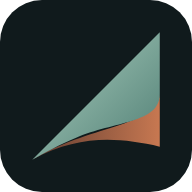
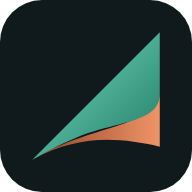
UI polish: brand palette, TV-size nav, Roadmap tab (#1)
* Align Keel Console palette tokens, sail mark, and UWP assets with canonical Keel brand

* TV-size the console navigation and rename the UWP tab to Roadmap

Tab labels go from 11px to 16px (1rem, so the text-size setting still
scales them) and the status rail from 11-12px to 14px. "UWP" is a build
target, not a place; the tab, its home button and the page eyebrow now
say Roadmap.

---------

Changed region(s): [[0.1875, 0.1562, 0.8438, 0.8125]]

diff --git a/src/app/globals.css b/src/app/globals.css
@@ -36,17 +36,17 @@
 :root {
   --keel-ink: #0a1112;
   --keel-surface: #101a1c;
-  --keel-surface-raised: #162326;
+  --keel-surface-raised: #162426;
   --keel-paper: #f7f3e9;
-  --keel-foam: #eef3f2;
-  --keel-muted: #849694;
-  --keel-jade: #709c8f;
-  --keel-jade-bright: #acd0c0;
-  --keel-rust: #c77851;
-  --keel-rust-deep: #b66e4f;
-  --keel-accent: #a4cfc0;
-  --keel-accent-strong: #4d7c70;
-  --keel-accent-ink: #081210;
+  --keel-foam: #eef4f2;
+  --keel-muted: #8ca3a0;
+  --keel-jade: #36b394;
+  --keel-jade-bright: #76dfc2;
+  --keel-rust: #dc7648;
+  --keel-rust-deep: #8f4224;
+  --keel-accent: #76dfc2;
+  --keel-accent-strong: #36b394;
+  --keel-accent-ink: #0a1112;
   --keel-border: rgb(255 255 255 / 9%);
   --keel-border-strong: rgb(255 255 255 / 16%);
 
@@ -75,23 +75,23 @@
   --radius: 0.875rem;
 }
 
-/* Tone variant: Slate (matches Keel Desktop) vs deeper Ink */
+/* Tone variant: Slate (matches Keel Desktop) vs deeper canonical Ink */
 html[data-tone="slate"] {
   --keel-ink: #0c1415;
   --keel-surface: #141f21;
   --keel-surface-raised: #1a272a;
 }
 
-/* Accent variants: Sage | Copper | Ice */
+/* Accent variants: Sage (canonical Jade) | Copper (canonical Rust) | Ice */
 html[data-accent="copper"] {
-  --keel-accent: #dfa07c;
-  --keel-accent-strong: #9c6244;
+  --keel-accent: #f09467;
+  --keel-accent-strong: #dc7648;
   --keel-accent-ink: #160c07;
 }
 
 html[data-accent="ice"] {
-  --keel-accent: #a8cde8;
-  --keel-accent-strong: #4f7b9e;
+  --keel-accent: #8bc8f0;
+  --keel-accent-strong: #3f82b5;
   --keel-accent-ink: #07121b;
 }
 

diff --git a/src/components/keel/shell.tsx b/src/components/keel/shell.tsx
@@ -41,7 +41,7 @@ const VIEW_LABEL: Record<View, string> = {
   console: "Console",
   models: "Models",
   settings: "Settings",
-  path: "UWP",
+  path: "Roadmap",
 };
 
 const EMPTY_SERVER_WLLAMA: BrowserRuntimeState = {
@@ -242,7 +242,7 @@ export function KeelShell() {
             <span className="font-[family-name:var(--font-display)] text-xl font-bold tracking-tight text-[color:var(--keel-paper)]">
               Keel
             </span>
-            <span className="font-mono text-[10px] tracking-[0.26em] text-[color:var(--keel-rust)] uppercase">
+            <span className="font-mono text-xs tracking-[0.26em] text-[color:var(--keel-rust)] uppercase">
               Console
             </span>
           </div>
@@ -256,7 +256,7 @@ export function KeelShell() {
               type="button"
               onClick={() => setView(id)}
               className={cn(
-                "rounded-full px-3.5 py-1.5 font-mono text-[11px] tracking-[0.16em] uppercase transition-colors",
+                "rounded-full px-4 py-2 font-mono text-base tracking-[0.12em] uppercase transition-colors",
                 view === id
                   ? "bg-[color:var(--keel-paper)] font-semibold text-[color:var(--keel-ink)]"
                   : "text-[color:var(--keel-muted)] hover:text-[color:var(--keel-foam)]",

diff --git a/src/components/keel/keel-mark.tsx b/src/components/keel/keel-mark.tsx
@@ -18,12 +18,12 @@ export function KeelMark({ className }: { className?: string }) {
     >
       <defs>
         <linearGradient id={jadeId} x1="0" y1="0" x2="1" y2="1">
-          <stop offset="0%" stopColor="#acd0c0" />
-          <stop offset="100%" stopColor="#507e74" />
+          <stop offset="0%" stopColor="#76dfc2" />
+          <stop offset="100%" stopColor="#217a65" />
         </linearGradient>
         <linearGradient id={rustId} x1="0" y1="0" x2="1" y2="0">
-          <stop offset="0%" stopColor="#613c30" />
-          <stop offset="100%" stopColor="#c77851" />
+          <stop offset="0%" stopColor="#8f4224" />
+          <stop offset="100%" stopColor="#f09467" />
         </linearGradient>
       </defs>
       <path
@@ -51,12 +51,12 @@ export function KeelSailBackdrop({ className }: { className?: string }) {
       className={cn("pointer-events-none select-none", className)}
     >
       <path
-        fill="#4f2f21"
+        fill="#5a2b19"
         opacity="0.88"
         d="M72 444C212 364 328 372 512 404V238C446 338 242 336 72 444Z"
       />
       <path
-        fill="#163029"
+        fill="#133a31"
         opacity="0.92"
         d="M72 444L512 48V238C454 328 312 326 202 374C152 396 108 422 72 444Z"
       />

diff --git a/src/components/keel/status-rail.tsx b/src/components/keel/status-rail.tsx
@@ -34,9 +34,9 @@ export function StatusRail({
         : model.name;
 
   return (
-    <footer className="keel-rail keel-safe-x relative z-20 flex flex-wrap items-center justify-between gap-3 py-3 text-xs text-[color:var(--keel-muted)]">
+    <footer className="keel-rail keel-safe-x relative z-20 flex flex-wrap items-center justify-between gap-3 py-3 text-sm text-[color:var(--keel-muted)]">
       <div className="flex flex-wrap items-center gap-4">
-        <span className="inline-flex items-center gap-2 font-mono text-[11px]">
+        <span className="inline-flex items-center gap-2 font-mono text-sm">
           <span
             className={cn(
               "inline-block size-2 rounded-full",
@@ -59,7 +59,7 @@ export function StatusRail({
         </div>
       </div>
 
-      <div className="flex shrink-0 items-center gap-3 font-mono text-[11px]">
+      <div className="flex shrink-0 items-center gap-3 font-mono text-sm">
         <span className="hidden sm:inline text-[color:var(--keel-muted)]">
           {viewLabel}
         </span>

diff --git a/src/components/keel/xbox-glyph.tsx b/src/components/keel/xbox-glyph.tsx
@@ -3,10 +3,10 @@ import { cn } from "@/lib/utils";
 type ButtonKind = "A" | "B" | "X" | "Y" | "LB" | "RB" | "RT";
 
 const BADGE_STYLE: Record<ButtonKind, string> = {
-  A: "border-[#709c8f]/60 bg-[#709c8f]/18 text-[#acd0c0]",
-  B: "border-[#c77851]/60 bg-[#c77851]/18 text-[#e59a74]",
-  X: "border-[#7ea6c8]/50 bg-[#7ea6c8]/15 text-[#a8cde8]",
-  Y: "border-[#d7b67a]/50 bg-[#d7b67a]/15 text-[#e6cca0]",
+  A: "border-[#36b394]/65 bg-[#36b394]/20 text-[#76dfc2]",
+  B: "border-[#dc7648]/65 bg-[#dc7648]/20 text-[#f09467]",
+  X: "border-[#3f82b5]/60 bg-[#3f82b5]/18 text-[#8bc8f0]",
+  Y: "border-[#d7b67a]/55 bg-[#d7b67a]/18 text-[#f2d699]",
   LB: "border-white/20 bg-white/8 text-[color:var(--keel-foam)]",
   RB: "border-white/20 bg-white/8 text-[color:var(--keel-foam)]",
   RT: "border-white/20 bg-white/8 text-[color:var(--keel-foam)]",

diff --git a/src/components/keel/path-view.tsx b/src/components/keel/path-view.tsx
@@ -57,7 +57,7 @@ export function PathView({
       <div className="mb-6 flex flex-wrap items-end justify-between gap-4">
         <div>
           <p className="font-mono text-[11px] tracking-[0.28em] text-[color:var(--keel-rust)] uppercase">
-            UWP &amp; Store Path
+            Roadmap
           </p>
           <h2 className="mt-1 font-[family-name:var(--font-display)] text-3xl font-bold tracking-tight text-[color:var(--keel-paper)] sm:text-4xl">
             From web console to retail Xbox app

diff --git a/src/components/keel/home-view.tsx b/src/components/keel/home-view.tsx
@@ -143,7 +143,7 @@ export function HomeView({
               onClick={onOpenPath}
               className="keel-card flex min-h-13 items-center gap-2 rounded-full px-5 py-3 text-sm font-medium text-[color:var(--keel-muted)] hover:text-[color:var(--keel-foam)]"
             >
-              <span>UWP &amp; Store</span>
+              <span>Roadmap</span>
             </button>
           </motion.div>
 
